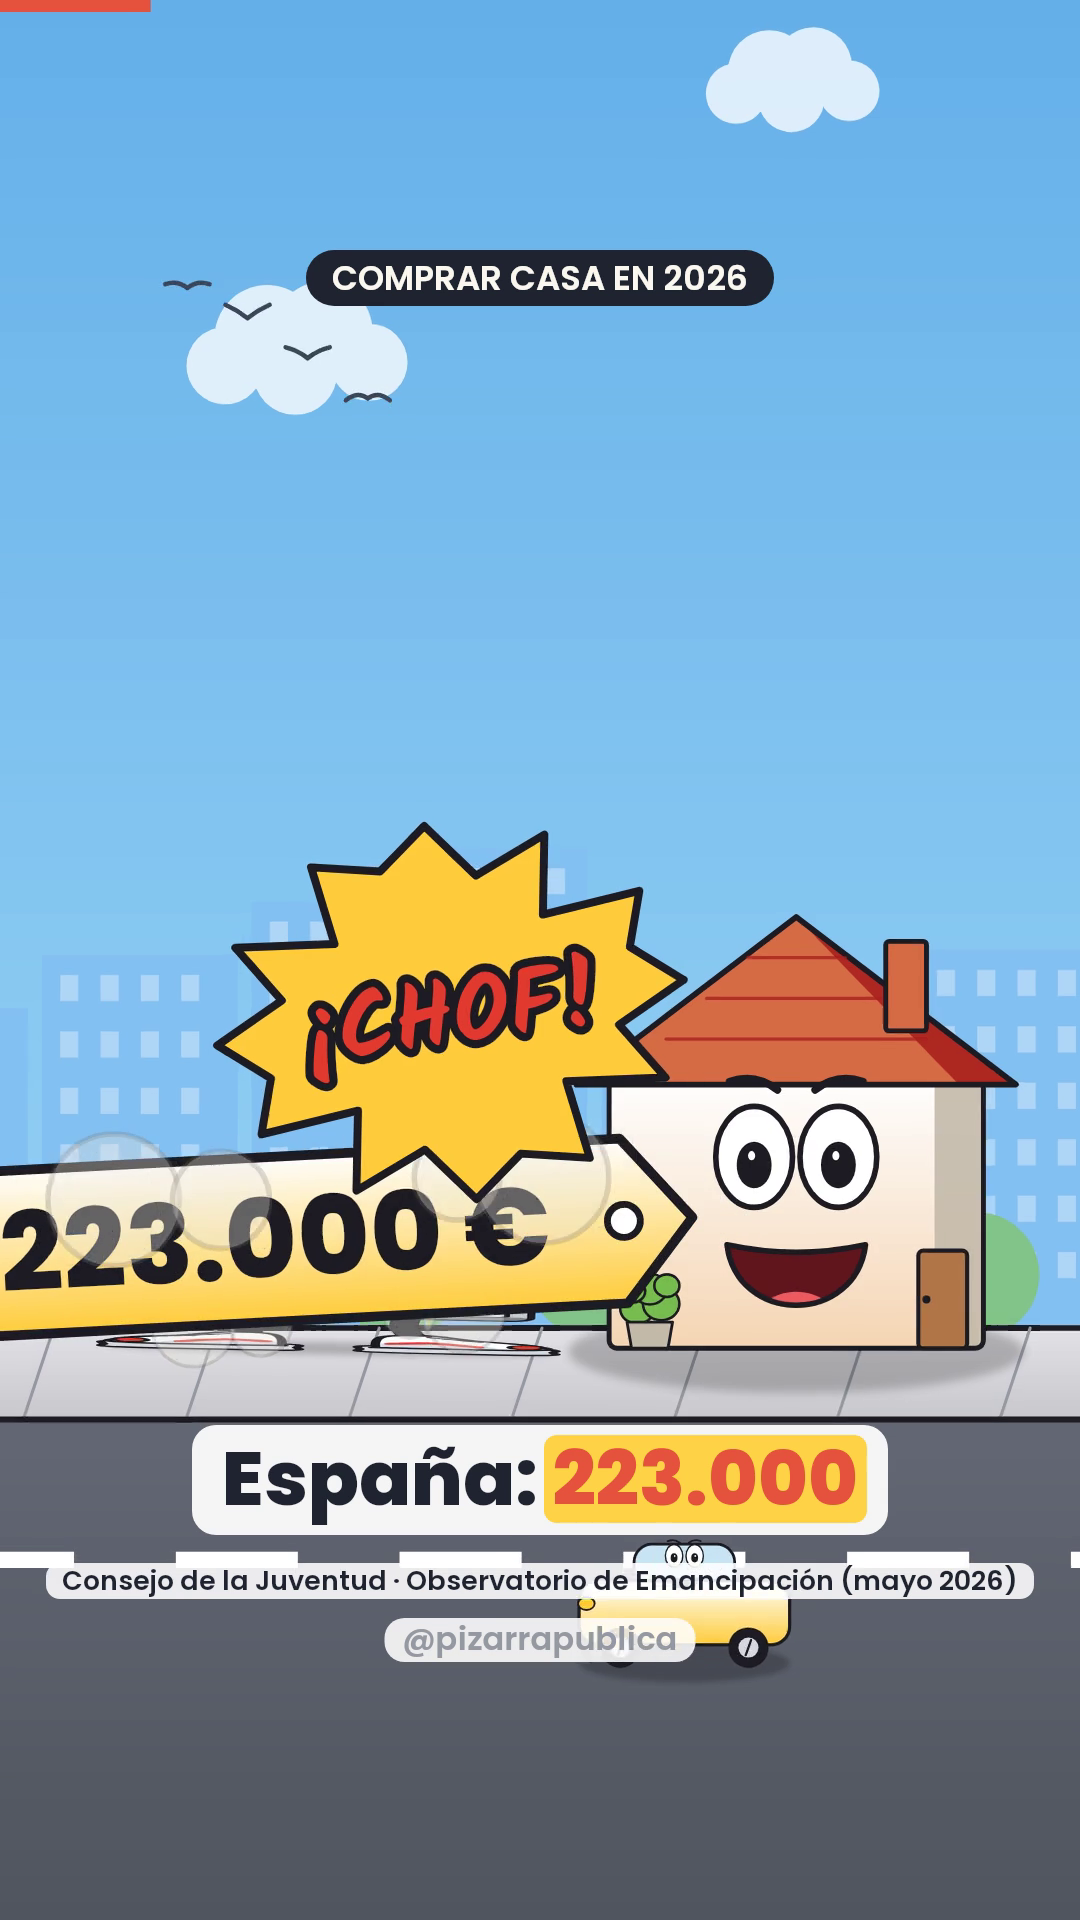
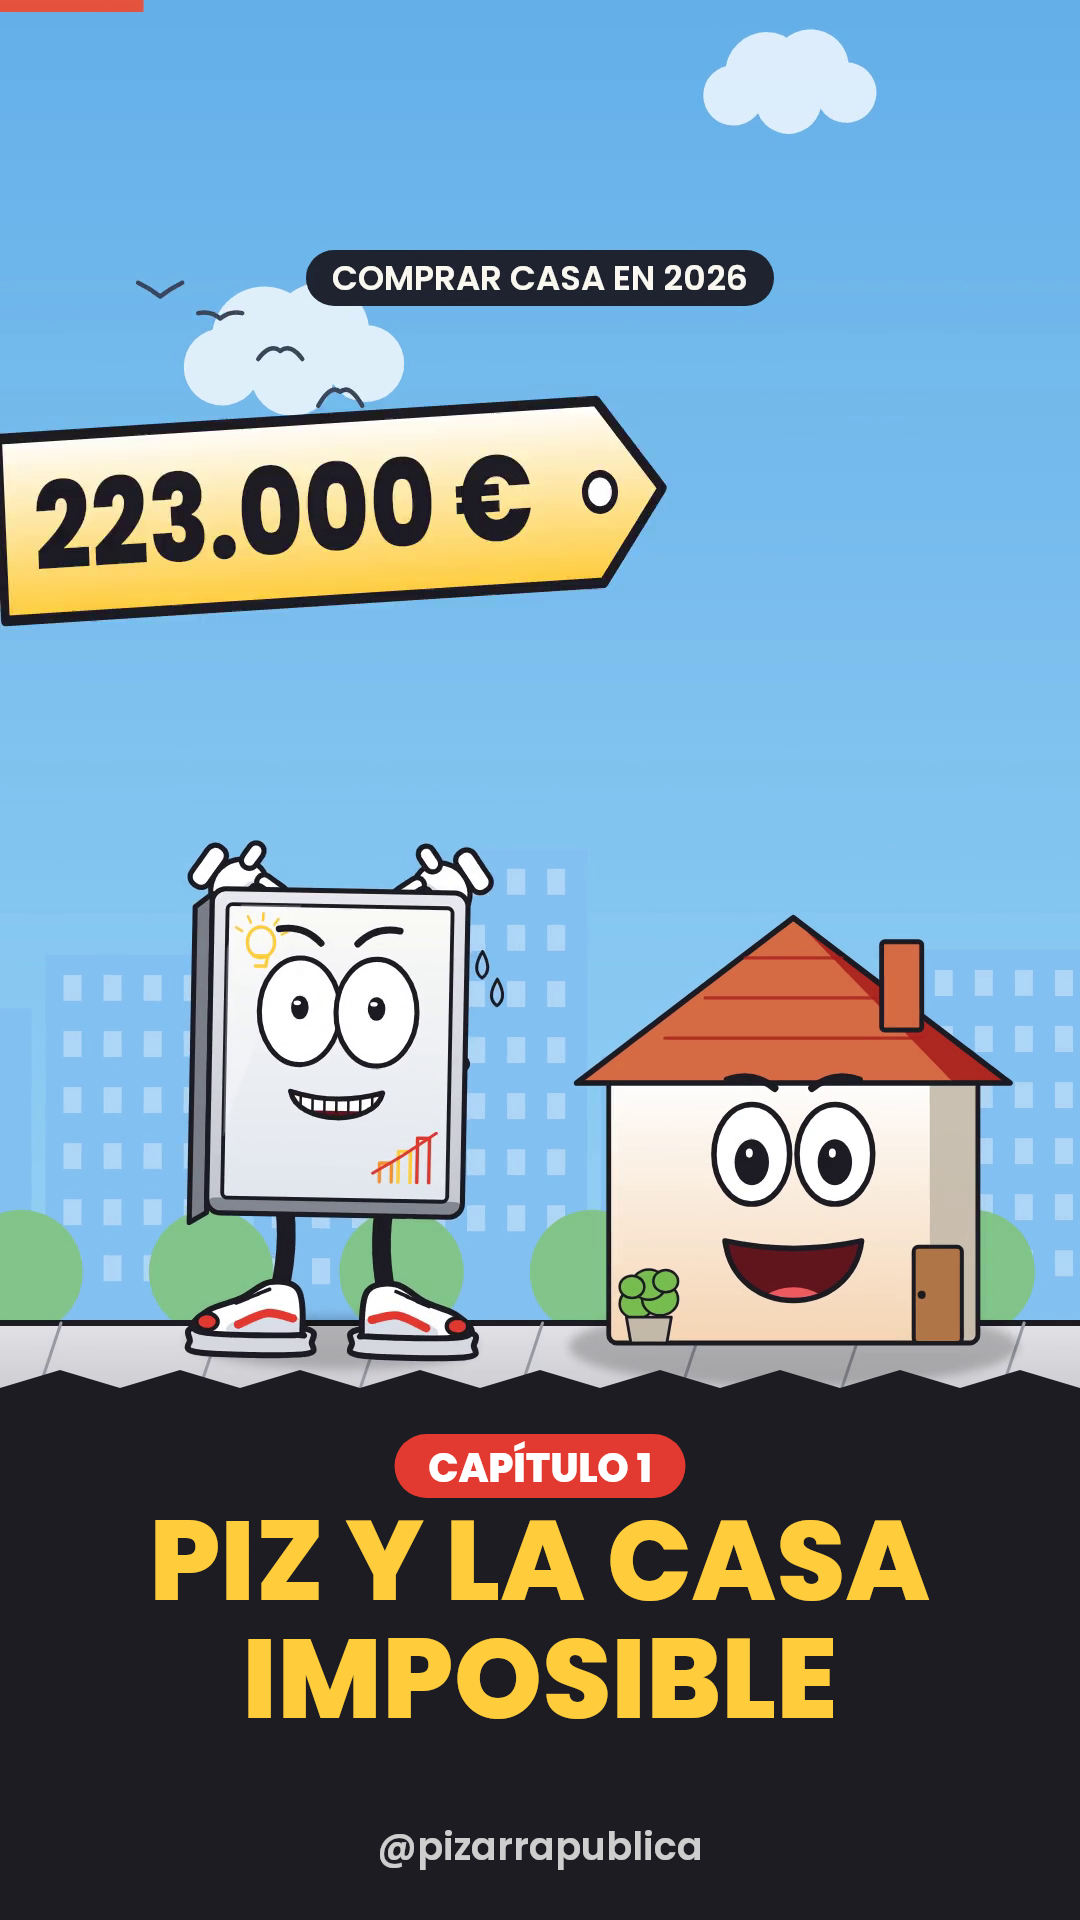
Portada estándar de episodio (pipeline/portada.py), automática en make_video
Claude-Session: https://claude.ai/code/session_014hiqxGpSBvDN8wupqaZRxh

diff --git a/pipeline/portada.py b/pipeline/portada.py
@@ -1,0 +1,99 @@
+"""Portada estándar de los episodios (misma plantilla para todos los vídeos).
+
+Fotograma del momento más visual del episodio arriba + franja inferior fija con:
+  pastilla «CAPÍTULO N», título en dos líneas (amarillo con contorno) y @pizarrapublica.
+El título queda dentro del recorte 4:5 de la cuadrícula de Instagram (y 285-1635).
+
+En el storyboard: "portada": {"t": 7.85, "titulo": "Piz y la casa imposible", "capitulo": 1}
+Uso suelto: python3 portada.py storyboards/<slug>.json [--out ../videos]
+make_video.py la genera sola al terminar el render si el storyboard trae "portada".
+"""
+import argparse
+import json
+import os
+import subprocess
+import tempfile
+
+import skia
+
+import wb
+from universo import estilo
+
+W, H = 1080, 1920
+FRANJA = 1370  # desde aquí hacia abajo, panel fijo (tapa subtítulos y notas del fotograma)
+
+
+def _lineas(titulo):
+    """Parte el título en dos líneas lo más equilibradas posible."""
+    pal = titulo.upper().split()
+    if len(pal) < 3:
+        return [" ".join(pal)]
+    mejor = min(range(1, len(pal)), key=lambda i: abs(len(" ".join(pal[:i])) - len(" ".join(pal[i:]))))
+    return [" ".join(pal[:mejor]), " ".join(pal[mejor:])]
+
+
+def _ajusta(txt, fuente, size, ancho):
+    while wb.font(fuente, size).measureText(txt) > ancho and size > 40:
+        size -= 4
+    return size
+
+
+def dibuja(c, titulo, capitulo=None, handle="@pizarrapublica"):
+    # panel inferior con borde superior en zigzag de tiza
+    p = skia.Path()
+    p.moveTo(0, FRANJA + 18)
+    for i, x in enumerate(range(0, W + 60, 60)):
+        p.lineTo(x, FRANJA + (0 if i % 2 else 18))
+    p.lineTo(W, H)
+    p.lineTo(0, H)
+    p.close()
+    c.drawPath(p, skia.Paint(Color=wb.rgb(estilo.TINTA), AntiAlias=True))
+    y = FRANJA + 110
+    if capitulo is not None:
+        cap = f"CAPÍTULO {capitulo}"
+        f = wb.font("sub", 40)
+        w = f.measureText(cap)
+        r = skia.RRect.MakeRectXY(skia.Rect(W / 2 - w / 2 - 34, y - 46, W / 2 + w / 2 + 34, y + 18), 32, 32)
+        c.drawRRect(r, skia.Paint(Color=wb.rgb(estilo.COL["rojo"]), AntiAlias=True))
+        c.drawString(cap, W / 2 - w / 2, y + 2, f, skia.Paint(Color=skia.ColorWHITE, AntiAlias=True))
+        y += 120
+    lineas = _lineas(titulo)
+    size = min(_ajusta(l, "sub", 112, W - 110) for l in lineas)
+    for l in lineas:
+        estilo.texto_cartoon(c, l, W / 2, y, size, color="amarillo", fuente="sub")
+        y += size * 1.05
+    f = wb.font("ui", 38)
+    w = f.measureText(handle)
+    c.drawString(handle, W / 2 - w / 2, min(H - 60, y + 30), f, skia.Paint(Color=skia.Color(255, 255, 255, 200), AntiAlias=True))
+
+
+def genera(video, salida, t, titulo, capitulo=None):
+    with tempfile.TemporaryDirectory() as tmp:
+        png = os.path.join(tmp, "f.png")
+        subprocess.run(["ffmpeg", "-v", "error", "-y", "-ss", str(t), "-i", video, "-frames:v", "1", png], check=True)
+        img = skia.Image.open(png)
+        surf = skia.Surface(W, H)
+        c = surf.getCanvas()
+        c.drawImageRect(img, skia.Rect(0, 0, W, H))
+        dibuja(c, titulo, capitulo)
+        surf.makeImageSnapshot().save(salida, skia.kPNG)
+    return salida
+
+
+def desde_storyboard(story, outdir):
+    cfg = story.get("portada")
+    if not cfg:
+        return None
+    slug = story["slug"]
+    video = os.path.join(outdir, f"{slug}.mp4")
+    return genera(video, os.path.join(outdir, f"portada_{slug}.png"), cfg.get("t", 2.0),
+                  cfg.get("titulo", story.get("title", "")), cfg.get("capitulo"))
+
+
+if __name__ == "__main__":
+    ap = argparse.ArgumentParser()
+    ap.add_argument("storyboard")
+    ap.add_argument("--out", default=os.path.join(os.path.dirname(__file__), "..", "videos"))
+    a = ap.parse_args()
+    st = json.load(open(a.storyboard, encoding="utf-8"))
+    print(desde_storyboard(st, os.path.join(a.out, st["slug"])))

diff --git a/pipeline/series/compra2026_serie.py b/pipeline/series/compra2026_serie.py
@@ -209,6 +209,7 @@ SB = dict(base.SB)
 SB.update(
     slug="compra2026_serie", title="Piz y la casa imposible", scenes=scenes, banda=True,
     music_volume=0.2, scribble_volume=0.0, sfx_volume=1.0, end_hold=0.9,
+    portada={"t": 7.97, "titulo": "Piz y la casa imposible", "capitulo": 1},
     caption=("🏠 Piz tiene trabajo fijo y 5 años ahorrando. El banco le dice que no.\n"
              "💶 Piso medio: 223.000 € · entrada + impuestos: 66.900 € (hasta 22.300 € de ITP)\n"
              "🏃 La casa corre más que él: +12,5 % en un año\n"

diff --git a/pipeline/make_video.py b/pipeline/make_video.py
@@ -514,6 +514,9 @@ def main():
         subprocess.run(["ffmpeg", "-y", "-v", "error", "-i", final, "-vf", "fps=2,scale=216:-2,tile=10x8", "-frames:v", "1",
                         "-q:v", "4", hoja], check=True)
         print("Hoja:", hoja)
+    if story.get("portada"):
+        import portada
+        print("Portada:", portada.desde_storyboard(story, outdir))
     print("Listo:", final)
 
 

diff --git a/docs/serie.md b/docs/serie.md
@@ -69,7 +69,14 @@ En reposo los personajes respiran y se balancean. Edificios y objetos aceptan `"
 4. `--ritmo` con la voz real: ningún hueco de más de 2,5 s; si lo hay, se rellena con una reacción que signifique algo.
 5. Render final y revisión de fotogramas y volúmenes.
 
-## 8. Limitaciones reales
+## 8. Portada estándar (todas iguales)
+
+Fotograma del momento más visual arriba y franja oscura fija abajo con la pastilla roja «CAPÍTULO N», el título en dos líneas
+amarillas y @pizarrapublica (dentro del recorte 4:5 de Instagram). En el storyboard:
+`"portada": {"t": <segundo del fotograma>, "titulo": "...", "capitulo": N}`. `make_video.py` la crea sola al terminar
+(`videos/<slug>/portada_<slug>.png`); para rehacerla sin renderizar: `python3 portada.py storyboards/<slug>.json`.
+
+## 9. Limitaciones reales
 
 - Animación procedural (marionetas vectoriales con brazos de manguera, estirar y aplastar), no dibujo fotograma a fotograma.
 - El giro de tres cuartos desplaza la cara; no hay perfil dibujado de verdad.
